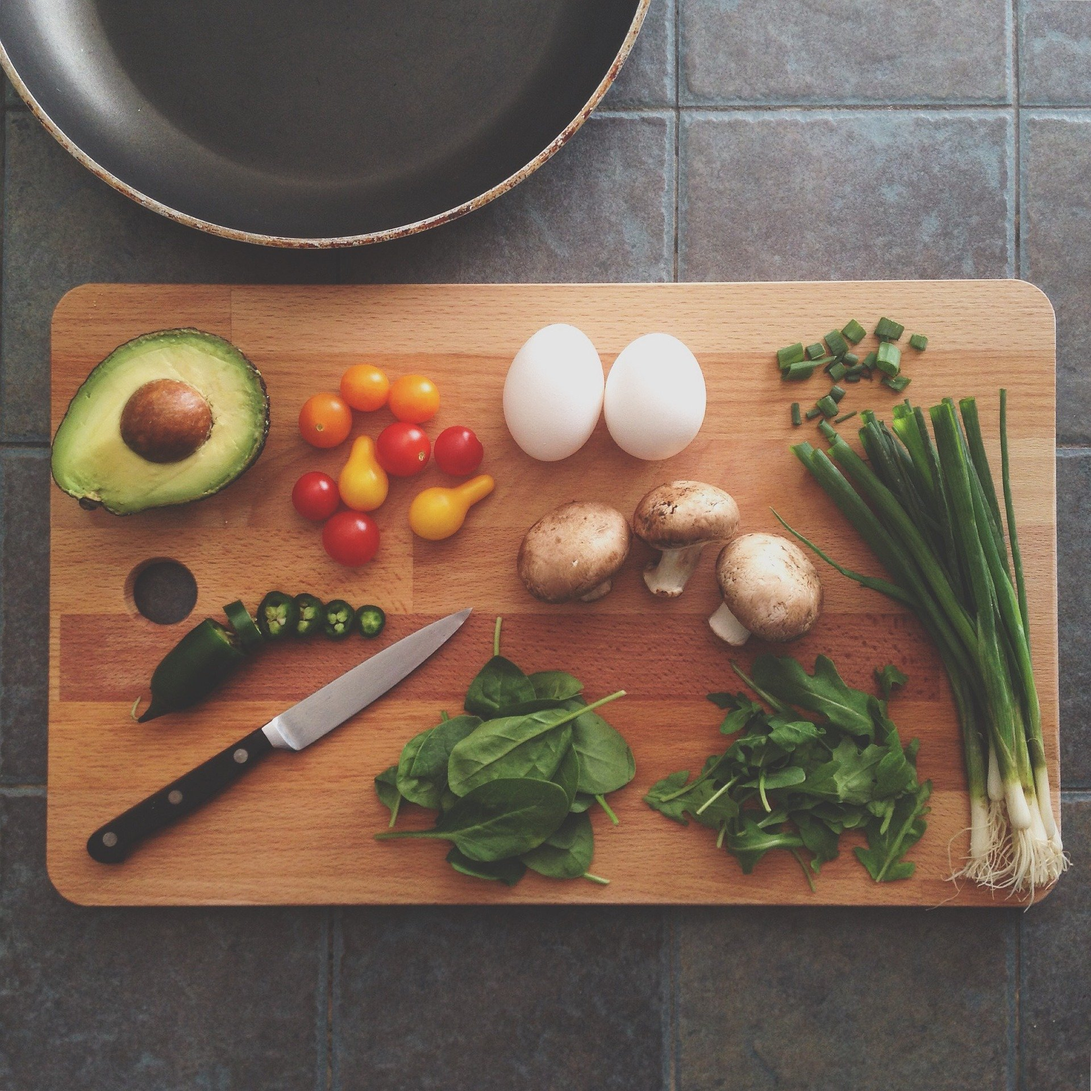
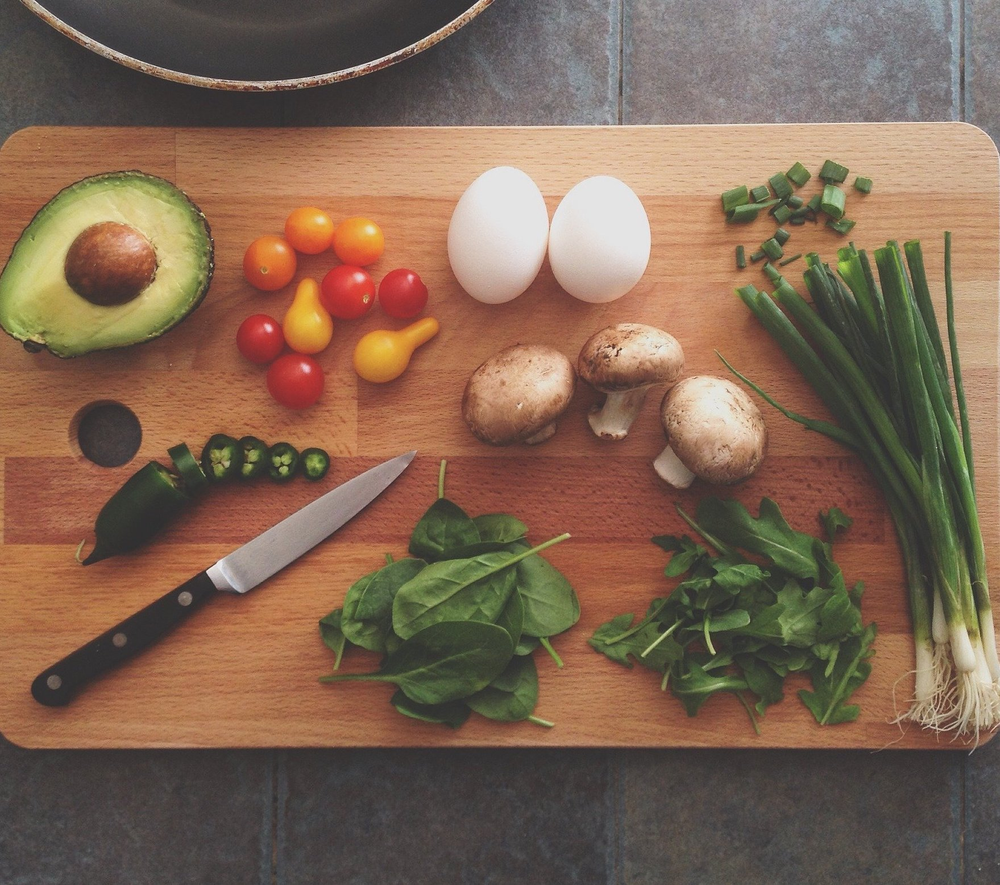
Responsive landing-page

diff --git a/frontend/src/index.css b/frontend/src/index.css
@@ -1,14 +1,12 @@
-@import url('https://fonts.googleapis.com/css2?family=Anton&family=Nerko+One&family=Quicksand:wght@500&display=swap');
 html {
   font-size: 62.5%;
   box-sizing: border-box;
 }
 body {
-  font: 1.6rem Verdana;
+  font: 1.6rem ;
   height: 100vh;
   margin: 0;
-  background-image:linear-gradient( #c0b0a8d0,white);
-  /* overflow: hidden; */
+  background-image:linear-gradient( #d3c7c2d0,white);
 }
 #root {
   height: 100%;
@@ -20,30 +18,36 @@ body {
   border: 1px ridge;
   padding: 20vh;
   height: 50vh; 
-  background-image: url("./images/wood.jpg");
+  background-image: url("./images/avocado.jpg");
   background-size: cover;
   background-repeat: no-repeat;
   background-position: center center;
+  background-attachment: fixed;
+  overflow: hidden;
 
 }
-
-.container {
+.col {
   border: 1px inset;
   border-radius: 30px;  
-  background-image: linear-gradient(#e7e0e0, #ffffff);
-  width: 40% !important;
-  height: 50vh !important;
+  background-color:  #ffffff;
   padding: 1vh; 
-  float: left;
-  margin: 0% 1% 1% 5%;
+  float: left !important;
+  flex: 1; /* additionally, equal width */
+  margin: 0% 2% 0% 1% ;
+
 }
+.row {
+  display: flex; /* equal height of the children */
+}
+
 
 #formLogin{
   font-family: 'Varela Round', sans-serif;
   color:#3a1b0e;
   text-align: center;
-  margin: 1vh;
+  margin-top: 3vh;
   padding: 1vh;  
+  font-size: 15px;
 }
 #loginLabels{
   color: #3a1b0ece;
@@ -55,7 +59,7 @@ body {
   font-size: 12px;
   text-align: center;
   padding: 2%;
-  width: 55%;
+  width: 75%;
   border: 0.5px dotted;
   border-color: #6436c1 !important;
   border-radius: 30px;
@@ -69,18 +73,18 @@ body {
 #loginButton{
   color: #ffffff;
   padding: 4%;
-  min-width: 60%;
+  min-width: 50%;
   border: 1px;
   border-radius: 30px;
   background-image: linear-gradient(#6436c1,rgba(170, 149, 228, 0.89)) !important;
 }
 p{
-  margin-top:15%;
+  margin-top:10%;
   font-size: 12px !important;
 }
 #facebookButton{
   font-size: 30px;
-  margin: 3%;
+  margin: 1%;
   padding: 1%;
 }
 img {

diff --git a/frontend/src/components/Explore.js b/frontend/src/components/Explore.js
@@ -3,18 +3,16 @@ import { faLock, faUser } from "@fortawesome/free-solid-svg-icons";
 import { faFacebook, faRProject } from "@fortawesome/free-brands-svg-icons";
 import { FontAwesomeIcon } from "@fortawesome/react-fontawesome";
 import recipe from "../images/recipe.gif";
-import { ResponsiveEmbed, Button } from "react-bootstrap";
+import { ResponsiveEmbed, Button, Container, Col, Row } from "react-bootstrap";
 
 class Explore extends React.Component {
   render() {
     return (
-      <div className="container">
-        <div id="formLogin">
-          <img  type="video/mp4" src={recipe} />
-          <Button type="submit" value="Explore" size="lg" id="loginButton">
-            EXPLORE
-          </Button>
-        </div>
+      <div id="formLogin">
+        <img type="video/mp4" src={recipe} />
+        <Button type="submit" value="Explore" size="lg" id="loginButton">
+          EXPLORE
+        </Button>
       </div>
     );
   }

diff --git a/frontend/src/components/Main.js b/frontend/src/components/Main.js
@@ -1,18 +1,23 @@
 import React from "react";
-import Login from './SignIn.js';
-import  Explore from './Explore.js';
+import Login from "./SignIn.js";
+import Explore from "./Explore.js";
+import { Container, Row, Col } from "react-bootstrap";
 
 class Main extends React.Component {
   render() {
     return (
       <div className="container-fluid">
-          <div className='row'>
-              <div className='col'>
-                <Login />
-                <Explore /> 
-              </div>
-          </div>
-     
+        <Container>
+          <Row className='row'>
+            <Col  className='col'>
+              <Login />
+            </Col>
+            <Col className="col">
+              <Explore />
+            </Col>
+          </Row>
+        </Container>
+       
       </div>
     );
   }

diff --git a/frontend/src/components/SignIn.js b/frontend/src/components/SignIn.js
@@ -13,7 +13,7 @@ import {
 class Login extends React.Component {
   render() {
     return (
-      <div className="container">
+      <div >
         <FormGroup id="formLogin">
           <h1>Login</h1>
           <InputGroup>
@@ -57,8 +57,8 @@ class Login extends React.Component {
             LOGIN
           </Button>
           <p id="loginLabels">Or Sign up Using</p>
-          <FontAwesomeIcon icon={faFacebook} size='lg' id="facebookButton" />
-          <FontAwesomeIcon icon={faGoogle} size='lg' id="facebookButton" />
+          <FontAwesomeIcon icon={faFacebook} size='xl' id="facebookButton" />
+          <FontAwesomeIcon icon={faGoogle} size='xl' id="facebookButton" />
         </FormGroup>
       </div>
     );
